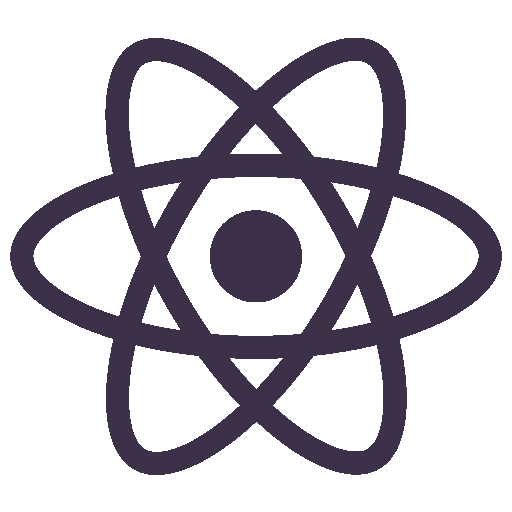
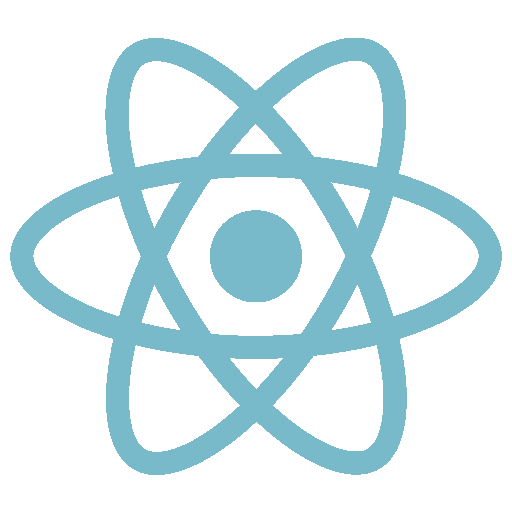
Fix some issues

Changed region(s): [[0.0, 0.0625, 1.0, 0.9375], [0.4062, 0.4062, 0.5938, 0.5938]]

diff --git a/src/pages/References.jsx b/src/pages/References.jsx
@@ -16,16 +16,17 @@ import thebookclub from '../images/thebookclub.jpg'
 import bookrclass from '../images/bookrclass.jpg'
 import thewayout from '../images/thewayout.jpg'
 import image_integration from '../images/image_integration.jpg'
+import image_ghostboy from '../images/ghostboy.jpg'
 import ScrollAnimation from 'react-animate-on-scroll'
 
-var projects = [
+export var projects = [
     {
         androidGame: true,
         title: "Deeper and Deeper - Android game",
         details: "This is an infinty runner type game, with Unity URP and 2D lighting. The graphics is 2D pixel art made by me."
         +" The main project was made on a weekend for a challenge, and some small features and skins were added later.",
         specific:[
-            "Infinit generated playground",
+            "Infinitly generated playground",
             "Self made 2D pixel art, with multiple skins and levels",
             "Market system",
             "Integrated Social Media Share system",
@@ -43,7 +44,7 @@ var projects = [
         specific:[
             "Infinitly generated levels",
             "Self made 2D pixel art, with dark and light settings",
-            "GameJam project:  made with one idea in one week",
+            "GameJam project: made with one idea in one week",
             "Integrated Google Ads"
         ],
         github: "https://github.com/kiskovi97/TheWayOut",
@@ -56,7 +57,7 @@ var projects = [
         details: "This is an infinty runner type game, made with Unity. The graphics was made by me, and the project was made with my dear friend Dorogi-Kovács Gábor. "
             + "This was our first game out in play store, but sadly the project was abondend after a year and the game was shut down by Play Store.",
         specific:[
-            "Infinit generated playground",
+            "Infinitly generated playground",
             "Self made 3D models and textures",
             "Market system"
         ],
@@ -68,12 +69,12 @@ var projects = [
         title: "Crowd Simulation with Unity DOTS",
         details: "This was my master's thesis of Budapest University of Technology and Economics"
             + " Crowd Simulation with Unity, using the Unity ECS packages."
-            + " I worked on this project for 2 semesters and made a youtube video series explaining it to others. ",
+            + " I worked on this project for 2 semesters and made a youtube video series explaining it to others.",
         specific:[
             "Unity ECS technology",
             "Crowd simulation aglorithms",
             "Testing enviroments with exported data",
-            "Deep documentation about the algoprithms and the ECS for learning",
+            "Deep documentation about the algorithms and the ECS for learning",
             "Youtube playlist about ECS and the algorithms"
         ],
         github: "https://github.com/kiskovi97/CrowdSimulation",
@@ -86,10 +87,10 @@ var projects = [
         title: "Procedurally generated virtual city",
         details: "The subject of my thesis is creating procedurally generated virtual cities using Unity engine."
             + "This city is generated from scratch. Only textures and vehicle modells were given. The finished city contains moving vehicles like cars or trams."
-            +" Later made into a game for an other project.",
+            +" Later made it into a game for an other project.",
         specific: [
-            "Procadurally generated buildings",
-            "Procedrually generated streats",
+            "Procedurally generated buildings",
+            "Procedurally generated streats",
             "Customizable parameters for generation with UI implementation",
             "Automated cars and trams with collision detection",
             "3D modells generation system with texture mapping",
@@ -215,7 +216,22 @@ var projects = [
             "Deeplink integration for Android, IOS, Mac and Windows",
             "Optimized download handeling for pictures and books",
             "Integrated In App purchase (IOS, Mac and Android) with restore function",
-            "App store integration with autmated building scripts"
+            "App store integration with autmated building scripts",
+            "SSO integration with multiple clients"
+        ],
+        image: image_integration,
+    },
+    {
+        bookr: true,
+        title: "Bookr Kids Web Based Solutions",
+        details: "One of Bookr's client requested a web-based solution for Bookr Class. "
+        + "I was tasked to plan, implement and lead the development and communication with the client.",
+        specific: [
+            "React based library with integrated Unity-WebGL player",
+            "NodeJs backend with custom environment variables",
+            "SSO Login implementation",
+            "Subscription handeling enpoints",
+            "AWS staging and production environment (EC2, CloudFront, S3, RDS)"
         ],
         image: image_integration,
     },
@@ -226,20 +242,19 @@ var projects = [
         +"He is the owner of the original idea and he is the grpahic designer of the game. "
         +"I was brought on to the project by a recomendation for helping out in the coding departmant.",
         specific: [
-            "Towerdefense mechanics with special abilities and bosses",
-            "Events and other Gameplay modifiers for more intressting levels",
-            "Structured codebase made with separated modules",
-            "UI System that works with bothy keyboard+mouse and controller",
-            "Family Member, Perks and Helps management system with optimized calculation time",
-            "Soundtrack and sound system handeling system",
-            "Gamestate saving system with level availability",
-            "Universal UI window system",
-            "Character special ability system",
+            "2D Towerdefense mechanics with special abilities and bosses",
+            "Unity Services integration (Remote config, Analytics)",
+            "Modular architecture with Dependency Injection",
+            //"Events and other Gameplay modifiers for more intressting levels",
+            "Keyboard and Controller support",
+            "Management system with optimized calculation time",
+            "FMOD integration",
             "2D Lighting integrated with shadows",
-            "Scriptable objects based design",
-            "Prefab based level design"
+            "Scriptable object and Prefab based design",
+            "Localization",
+            "Automated level testing"
         ],
-        image: image_integration,
+        image: image_ghostboy,
     }
 ]
 
@@ -287,35 +302,24 @@ var References = () =>
             <div className={gStyles.grid}>
                 <ScrollAnimation animateIn="fadeInUp" animateOut="fadeOutDown" animateOnce>
                     <div className={styles.logo}>
-                        <ReactIcon />
+                        <Bookr />
                     </div>
                 </ScrollAnimation>
                 <div>
-                    {projects.filter(item => item.reactWebsite).map((item, index) => (<Project proj={item} index={index}/>))}
+                    {projects.filter(item => item.bookr).map((item, index) => (<Project proj={item} index={index}/>))}
                 </div>
             </div>
         </div>
         <div>
             <div className={gStyles.grid}>
                 <div>
-                    {projects.filter(item => item.bookr).map((item, index) => (<Project proj={item} index={index}/>))}
+                    {projects.filter(item => item.reactWebsite).map((item, index) => (<Project proj={item} index={index}/>))}
                 </div>
                 <ScrollAnimation animateIn="fadeInUp" animateOut="fadeOutDown" animateOnce>
                     <div className={styles.logo}>
-                        <Bookr />
+                        <ReactIcon />
                     </div>
                 </ScrollAnimation>
-            </div>
-        </div>
-        <div hidden={true}>
-            <div className={gStyles.grid}>
-                <ScrollAnimation animateIn="fadeInUp" animateOut="fadeOutDown" animateOnce>
-                    <div className={styles.logo}>
-                    </div>
-                </ScrollAnimation>
-                <div>
-                    <Project proj={projects[12]} />
-                </div>
             </div>
         </div>
     </div>

diff --git a/src/pages/About.jsx b/src/pages/About.jsx
@@ -3,7 +3,7 @@ import styles from './Page.module.css'
 import Me from './Components/Me'
 import gStyles from './Grid.module.css'
 import ScrollAnimation from 'react-animate-on-scroll'
-import { Bookr, BME, Group } from './Icons'
+import { Bookr, BME, Group, Skill } from './Icons'
 
 var About = () =>
     <div className={styles.page}>
@@ -11,27 +11,40 @@ var About = () =>
         <div>
             <div className={gStyles.grid}>
                 <ScrollAnimation animateIn="fadeInLeft" animateOut="fadeOutLeft" animateOnce >
+                    <h2>Skills</h2>
+                    <h3>Programming Languages</h3>
+                    <div>C#, Html, Css, SQL, Javascript, Typescript, Java, C, C++</div>
+                    <h3>Environments</h3>
+                    <div>Unity, React, NodeJs, .NET, Android Studio, AWS</div>
+                    <h3>Roles</h3>
+                    <div>Architect, Project Managmer, Mentor, Graphic Designer, Public Relations Manager</div>
+                </ScrollAnimation>
+                <ScrollAnimation animateIn="fadeInRight" animateOut="fadeOutRight" animateOnce >
+                    <div className={styles.logo}>
+                        <Skill />
+                    </div>
+                </ScrollAnimation>
+            </div>
+        </div>
+        <div>        
+            <div className={gStyles.grid}>
+                <ScrollAnimation animateIn="fadeInRight" animateOut="fadeOutRight" animateOnce >
+                    <div className={styles.logo}>
+                        <Bookr />
+                    </div>
+                </ScrollAnimation>
+                <ScrollAnimation animateIn="fadeInLeft" animateOut="fadeOutLeft" animateOnce >
                     <h3>Currently working at:</h3>
                     <h4>2020 - <a href={"https://corp.bookrkids.com/"}>Bookr Kids</a> - Unity developer</h4>
                     <h3>Previous Jobs</h3>
                     <h4>2019 - 2020 <a href={"https://www.evosoft.hu/"}>Evosoft</a> - .NET developer</h4>
                     <h4>2018 - 2019 <a href={"https://atolldev.com/}"}>Atoldev</a> - Java fullstack developer</h4>
                 </ScrollAnimation>
-                <ScrollAnimation animateIn="fadeInRight" animateOut="fadeOutRight" animateOnce >
-                    <div className={styles.logo}>
-                        <Bookr />
-                    </div>
-                </ScrollAnimation>
             </div>
         </div>
         
         <div>
             <div className={gStyles.grid}>
-                <ScrollAnimation animateIn="fadeInRight" animateOut="fadeOutRight" animateOnce >
-                    <div className={styles.logo}>
-                        <BME />
-                    </div>
-                </ScrollAnimation>
                 <ScrollAnimation animateIn="fadeInLeft" animateOut="fadeOutLeft" animateOnce >
                     <h3>Budapest University of Technology and Economics</h3>
                     <h4>Computer Engineering BSc</h4>
@@ -42,10 +55,20 @@ var About = () =>
                     <h4>Schönherz Design Studio</h4>
                     <div>2016 - 2021</div>
                 </ScrollAnimation>
+                <ScrollAnimation animateIn="fadeInRight" animateOut="fadeOutRight" animateOnce >
+                    <div className={styles.logo}>
+                        <BME />
+                    </div>
+                </ScrollAnimation>
             </div>
         </div>
         <div>
             <div className={gStyles.grid}>
+                <ScrollAnimation animateIn="fadeInRight" animateOut="fadeOutRight" animateOnce >
+                    <div className={styles.logo}>
+                        <Group />
+                    </div>
+                </ScrollAnimation>
                 <ScrollAnimation animateIn="fadeInLeft" animateOut="fadeOutLeft" animateOnce >
                     <h2>University Self-active groups</h2>
                     <h3><a href={"https://parkettklub.sch.bme.hu/community/"}>ParkettKlub</a></h3>
@@ -56,11 +79,6 @@ var About = () =>
                     <h3><a href={"https://schdesign.hu/"}>Schönherz Design Studio</a></h3>
                     <li>3D Modelling Mentor</li>
                     <li>Graphic and UI Designer</li>
-                </ScrollAnimation>
-                <ScrollAnimation animateIn="fadeInRight" animateOut="fadeOutRight" animateOnce >
-                    <div className={styles.logo}>
-                        <Group />
-                    </div>
                 </ScrollAnimation>
             </div>
         </div>

diff --git a/src/pages/Components/Me.jsx b/src/pages/Components/Me.jsx
@@ -1,11 +1,10 @@
 import React from 'react'
 import styles from './Me.module.css'
-import image from '../../images/profile_yellow.png'
+import image from '../../images/ghostboy_gardener.png'
 import gStyles from '../Grid.module.css'
 import pStyles from '../Page.module.css'
 
 import insta from '../../logos/instagram.svg'
-import fb from '../../logos/facebook.svg'
 import linekdin from '../../logos/linkedin.svg'
 import github from '../../logos/github.svg'
 import ScrollAnimation from 'react-animate-on-scroll'
@@ -21,10 +20,9 @@ var Me = () =>
                         </div>
                     </ScrollAnimation>
                     <ScrollAnimation className={styles.logos} animateIn="fadeInLeft" animateOut="fadeOutLeft" offset={180} animateOnce>
-                        <a href="https://www.instagram.com/kiskovi9706/" className={pStyles.minilogo}><img src={insta} alt="" /></a>
-                        <a href="https://www.facebook.com/gergo.kovacs.948" className={pStyles.minilogo}><img src={fb} alt="" /></a>
                         <a href="https://www.linkedin.com/in/gerg%C5%91-kov%C3%A1cs-35215b154/" className={pStyles.minilogo}><img src={linekdin} alt="" /></a>
                         <a href="https://github.com/kiskovi97" className={pStyles.minilogo}><img src={github} alt="" /></a>
+                        <a href="https://www.instagram.com/kiskovi9706/" className={pStyles.minilogo}><img src={insta} alt="" /></a>
                     </ScrollAnimation>
                 </div>
                 <ScrollAnimation animateIn="fadeInUp" animateOut="fadeOutDown" className={styles.person} animateOnce>
@@ -33,13 +31,12 @@ var Me = () =>
             </div>
             <div className={styles.description}>
                 <ScrollAnimation animateIn="fadeInRight" animateOut="fadeOutRight" animateOnce>
-                    <h1>I'm a Software Engineer and Game Developer.</h1>
+                    <h1>I'm a Computer Science Engineer and Game Developer.</h1>
                 </ScrollAnimation>
                 <ScrollAnimation animateIn="fadeInLeft" animateOut="fadeOutLeft" offset={180} animateOnce>
-                    I make games for fun and for professionaly.
-                    I like to pursue intressting ideas and concepts and test them out first hand.
-                    If you are intressted in me or my work feel free to look around and contact me if you want.
-                    I give great head ;)
+                    I make games professionaly and for fun too.
+                    I like to pursue interesting ideas and concepts and test them out first hand.
+                    If you are interested in my work feel free to look around and contact me if you want.
                 </ScrollAnimation>
                 <ScrollAnimation animateIn="fadeInRight" animateOut="fadeOutRight" animateOnce>
                     <h3>kiskovi97@gmail.com</h3>

diff --git a/src/pages/Home.jsx b/src/pages/Home.jsx
@@ -3,7 +3,9 @@ import React from 'react'
 import styles from './Page.module.css'
 import gStyles from './Grid.module.css'
 import Me from './Components/Me'
-import { Skill } from './Icons'
+import { projects } from './References.jsx'
+import { Unity } from './Icons'
+import Project from './Components/Project'
 
 var Home = () =>
     <div className={styles.page}>
@@ -12,21 +14,12 @@ var Home = () =>
         </div>
         <div>
             <div className={gStyles.grid}>
-                <ScrollAnimation animateIn="fadeInLeft" animateOut="fadeOutLeft" animateOnce >
-                    <h2>Skills</h2>
-                    <h3>Programming Languages</h3>
-                    <div>C, C++, C#, Java, Html, Css, Javascript, SQL</div>
-                    <h3>Software Skills</h3>
-                    <div>Blender3D, 3DSMax, AndroidStudio,
-                        AdobeIllustrator, AdobePhotoshop,
-                        Unity, Oracle, React, Angular,WebGL
-                        MicrosoftSQLServer, .NET</div>
-                    <h3>OtherSkills</h3>
-                    <div>Public Relations, ProjectManagment, GraphicDesign</div>
-                </ScrollAnimation>
-                <ScrollAnimation animateIn="fadeInRight" animateOut="fadeOutRight" animateOnce >
+                <div>
+                    {projects.filter(item => item.pcGame).map((item, index) => (<Project proj={item} index={index}/>))}
+                </div>
+                <ScrollAnimation animateIn="fadeInUp" animateOut="fadeOutDown" animateOnce>
                     <div className={styles.logo}>
-                        <Skill />
+                        <Unity />
                     </div>
                 </ScrollAnimation>
             </div>

diff --git a/src/pages/colors.css b/src/pages/colors.css
@@ -4,10 +4,10 @@
 @value secondarydark: #1F0322;
 @value secondarylight: #5DB7DE;*/
 
-@value dark: #1A1423;
-@value primarydark: #3D314A;
-@value primarydarkShadow: #2D213A;
-@value primarylight: #997384;
-@value secondarydark: #5B3426;
-@value secondarylight: #EFC69B;
-@value secondarylightShadow: #CFA67B;
+@value dark: #141C34;
+@value primarydark: #243C54;
+@value primarydarkShadow: #142C44;
+@value primarylight: #FFFFFF;
+@value secondarydark: #181F1A;
+@value secondarylight: #98DFEA;
+@value secondarylightShadow: #88CFDA;

diff --git a/src/pages/Components/Project.jsx b/src/pages/Components/Project.jsx
@@ -11,13 +11,6 @@ class Project extends React.Component {
         this.setState({clicked: value});
     }
 
-    //componentDidMount() {
-    //    window.open('unitydl://thebookclub?Dashboard', '_blank');
-    //   }
-    //componentWillMount() {
-    //    window.open('unitydl://thebookclub?Dashboard', '_blank');
-    //   }
-
     render () {
         var prop = this.props;
         if (this.state.clicked) {
